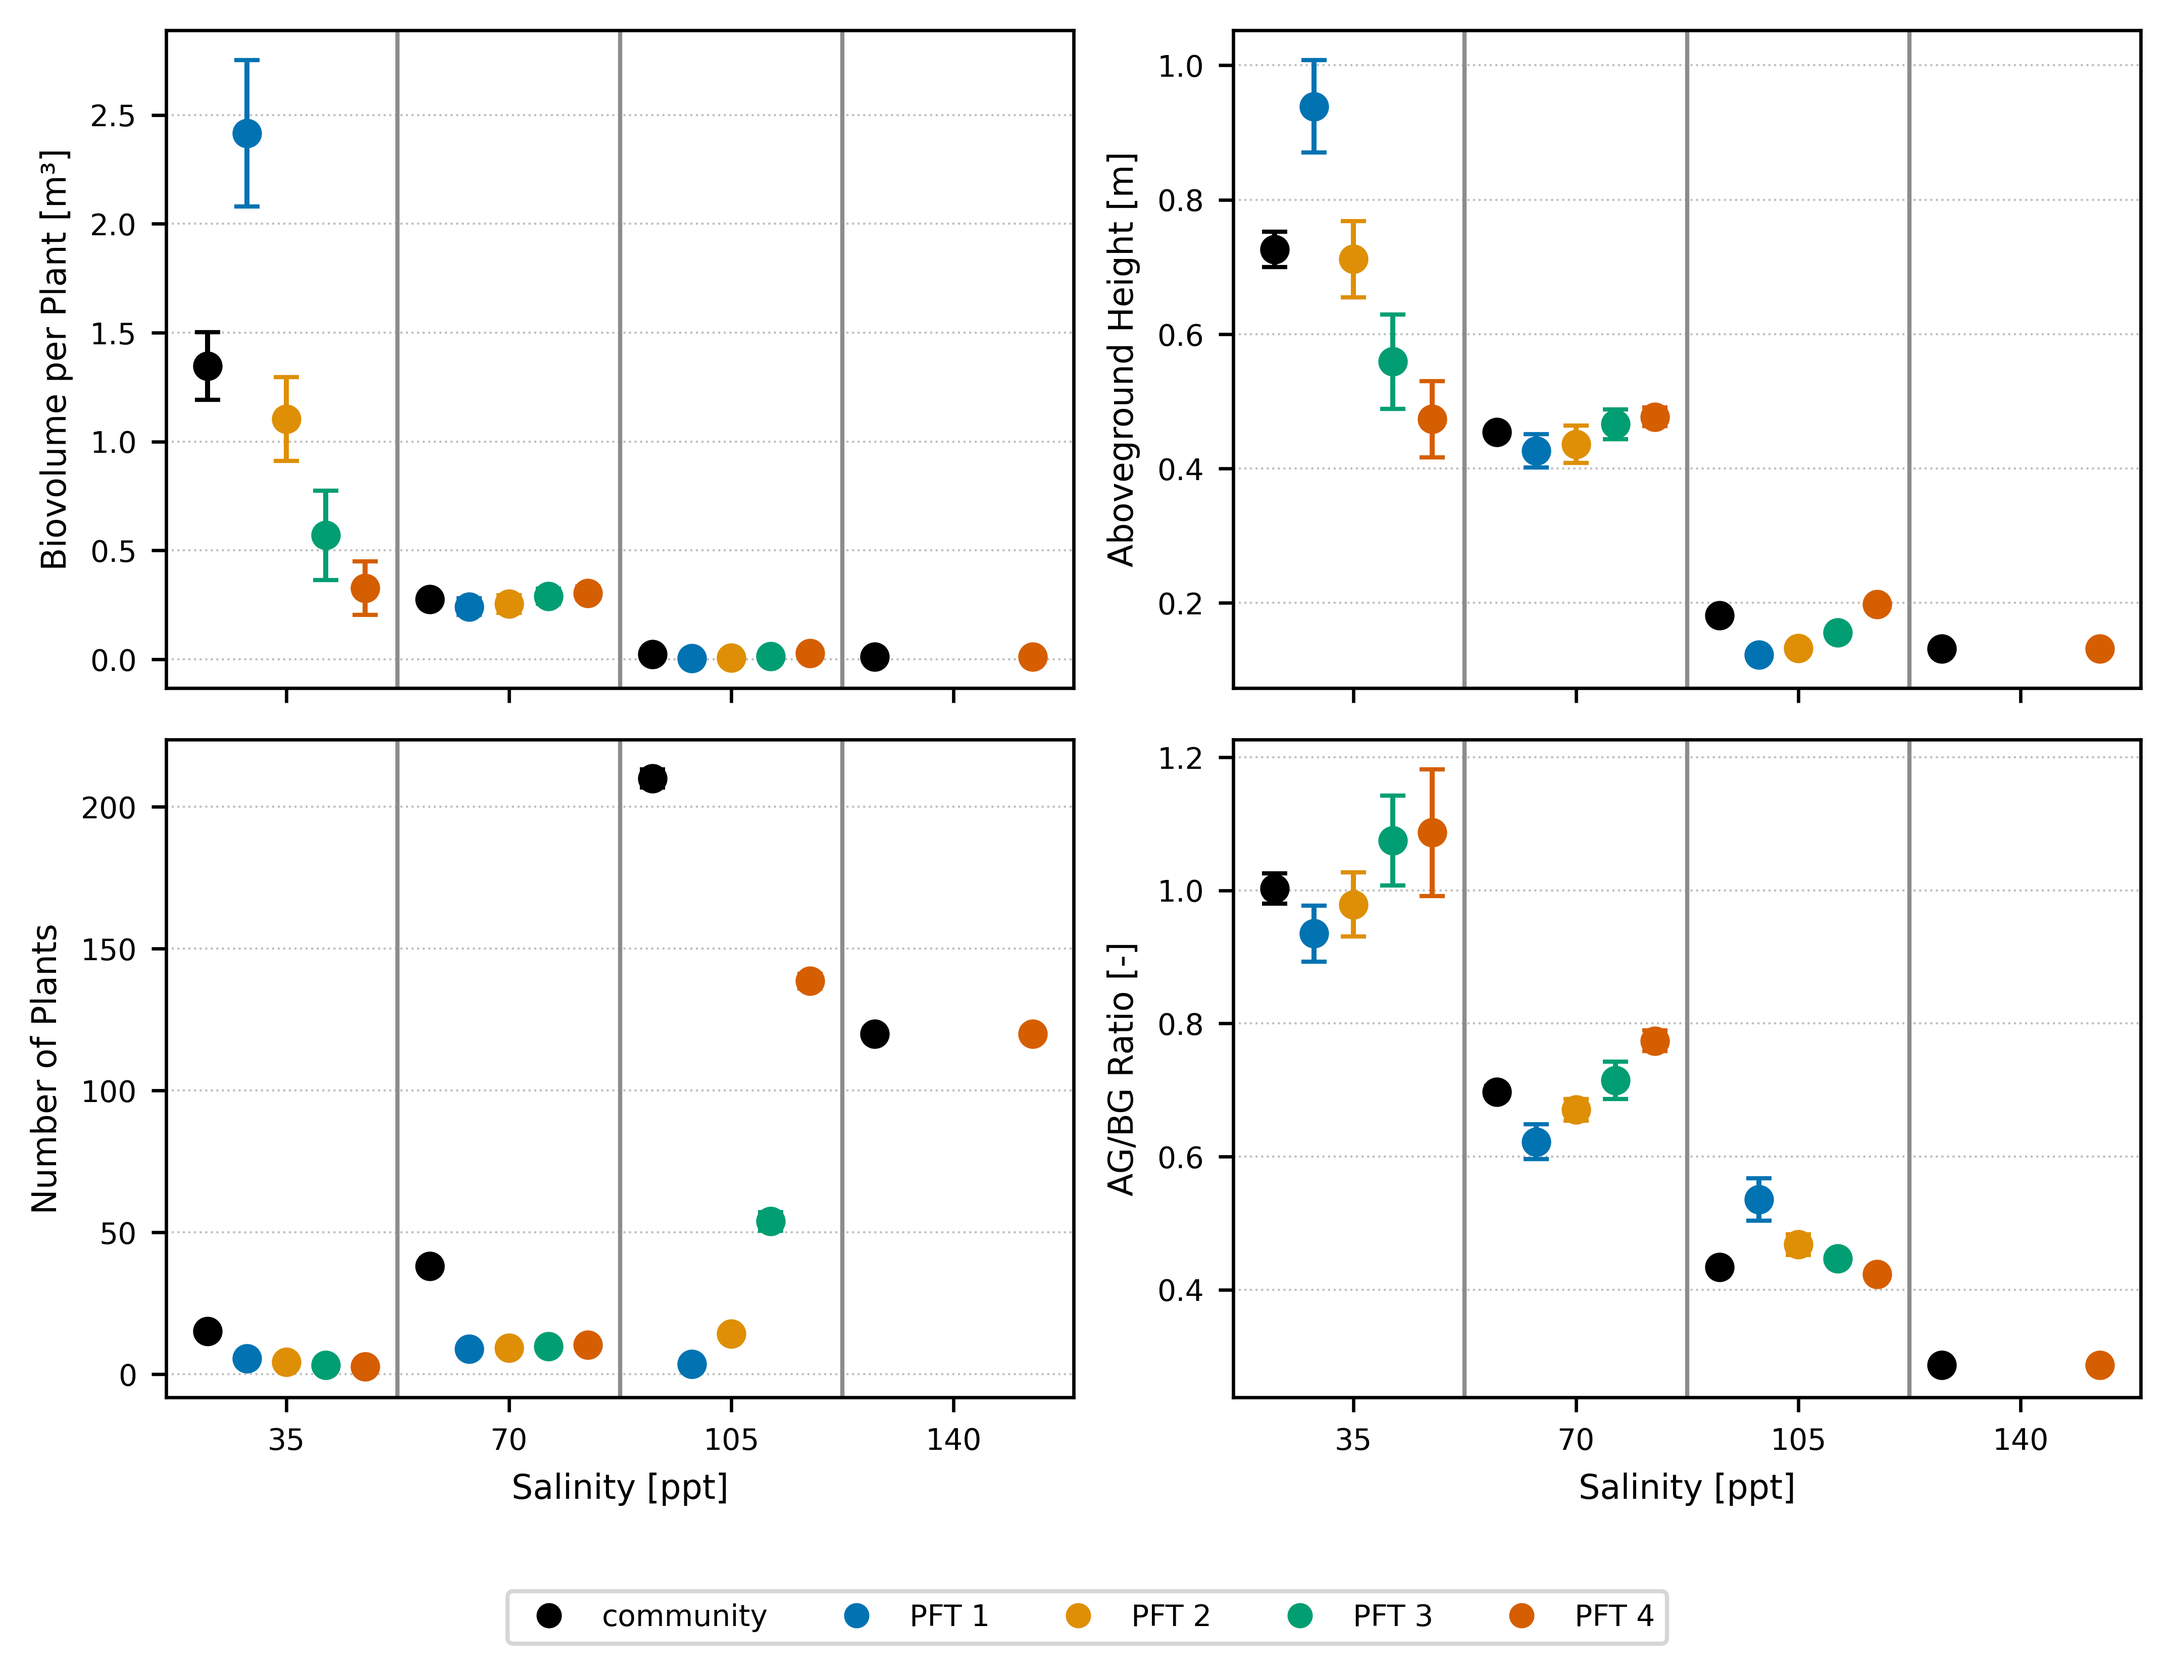
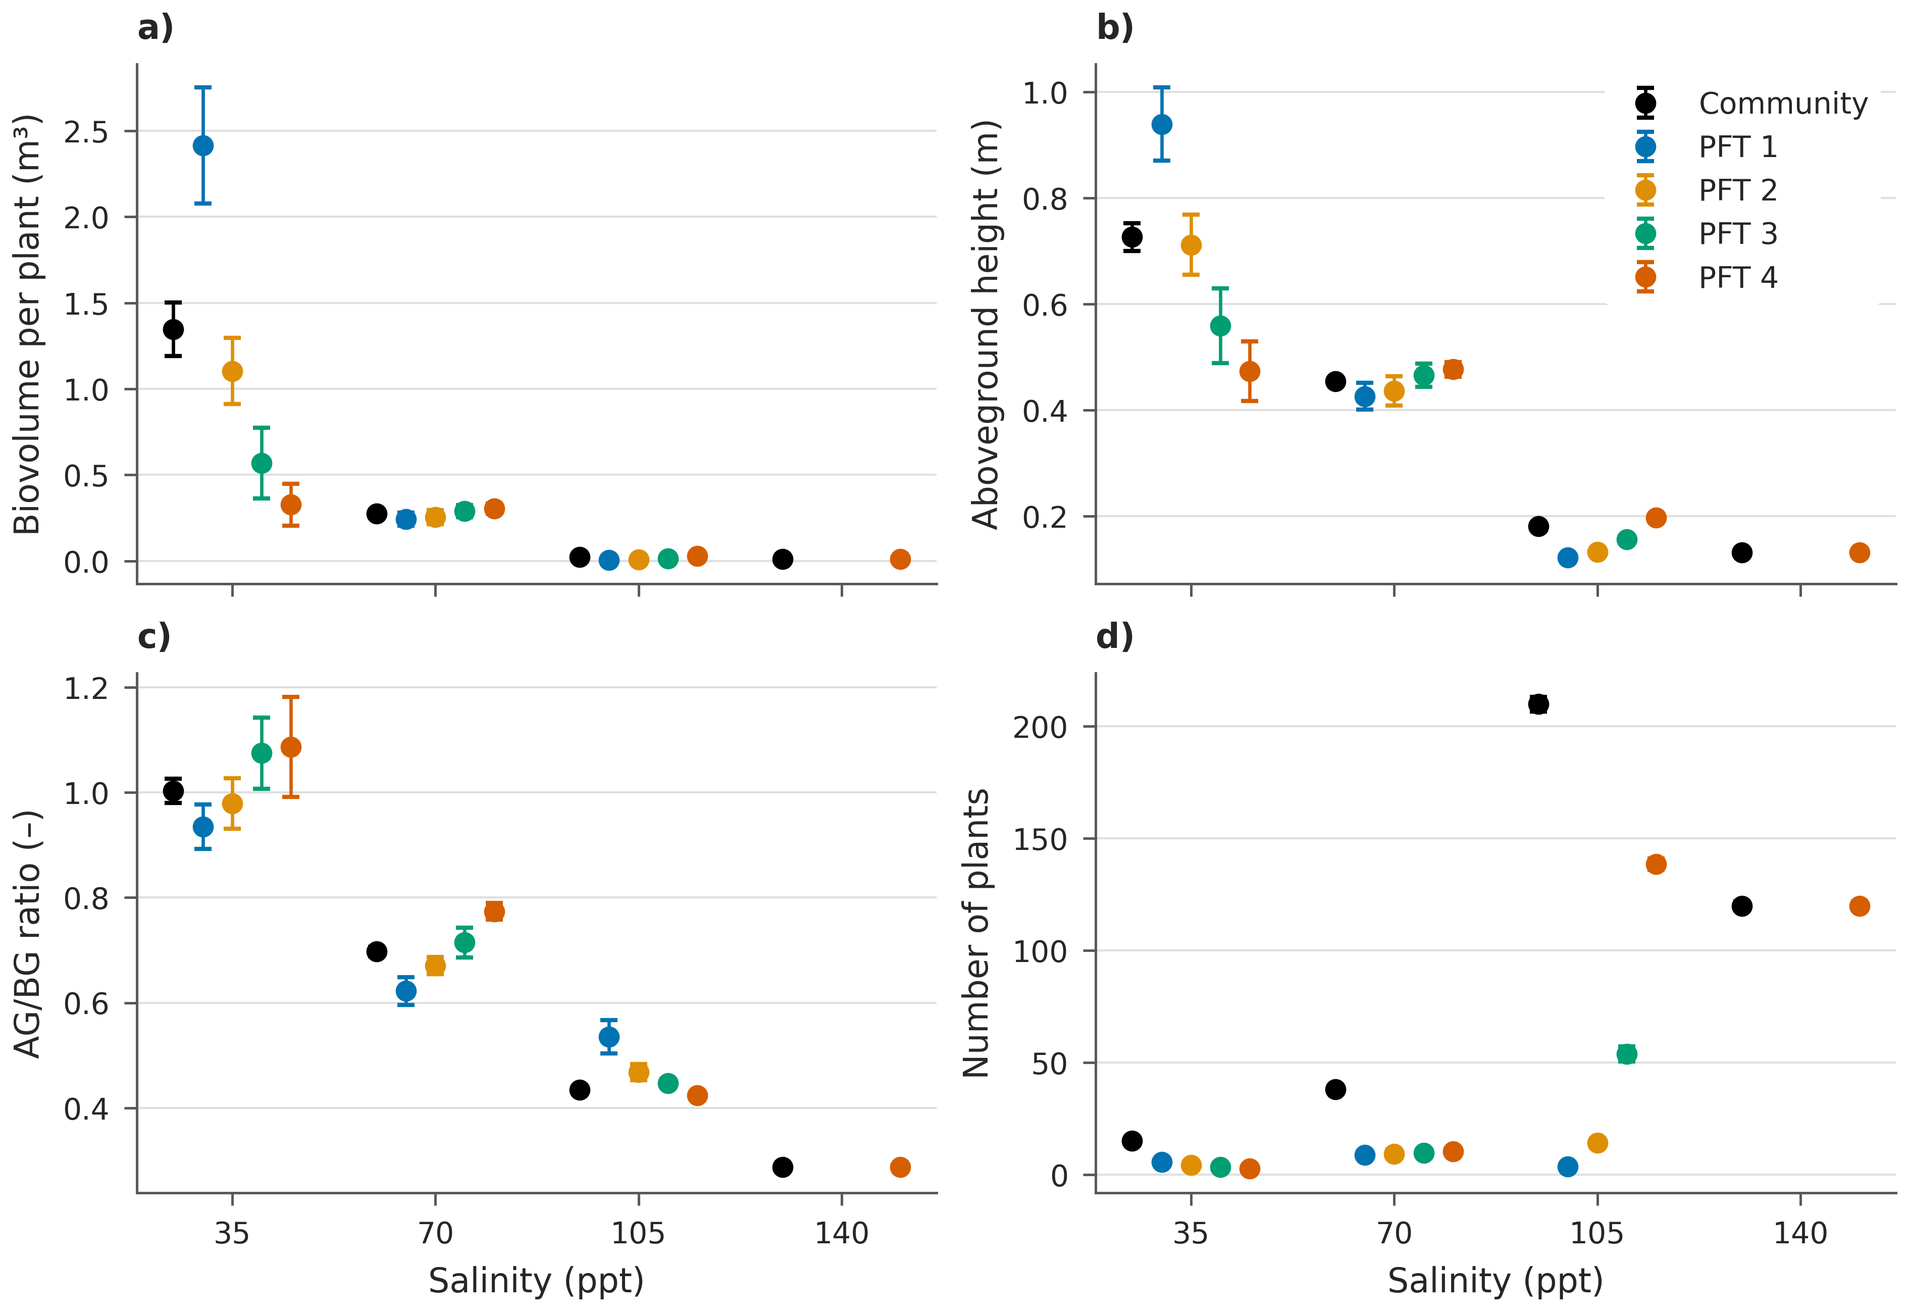
Update Figure 3

diff --git a/source/figure_utils.py b/source/figure_utils.py
@@ -17,7 +17,6 @@ import importlib
 import matplotlib.pyplot as plt
 import numpy as np
 import pandas as pd
-from matplotlib.lines import Line2D
 
 # Files with numeric prefixes are loaded via importlib because they cannot be
 # imported with standard from-import syntax.
@@ -465,18 +464,22 @@ def mean_ts(df, col):
 # =============================================================================
 
 def draw_structure_figure(summaries, salinity_levels, pft_levels, ylabels,
-                          panel_order, show_community=True, group_spacing=3.1):
+                          panel_order, show_community=True, group_spacing=3.8,
+                          pft_colors=None):
     """
     Draw the 2 x 2 point/error-bar figure of plant-structure metrics
-    (Figs. 3 and S3) and return the figure.
+    (Figs. 3 and S3) in the shared style and return the figure.
 
     summaries maps each metric to (summary_pft, summary_all). Both tables have
     the columns salinity, value, err_lower and err_upper; summary_pft also has
     pft. summary_all is the community reference and is only used when
     show_community is True. Within each salinity group, points are placed in
-    the order community (optional), PFT 1, ..., PFT 4.
+    the order community (optional), PFT 1, ..., PFT 4. Salinity groups are
+    separated only by a wider gap (group_spacing), not by lines. Panels are labelled
+    a)-d) in panel_order; the legend sits in the top-right panel.
+    pft_colors defaults to the shared PFT palette.
     """
-    pft_color_map = _config.pft_color_map
+    pft_color_map = pft_colors or _config.pft_color_map
 
     x_group = np.arange(len(salinity_levels)) * group_spacing
     sal_to_x = {sal: x_group[i] for i, sal in enumerate(salinity_levels)}
@@ -485,8 +488,6 @@ def draw_structure_figure(summaries, salinity_levels, pft_levels, ylabels,
     within_offsets = np.array([0.0, 0.55, 1.10, 1.65, 2.20])[:n_series]
     first_pft_slot = 1 if show_community else 0
 
-    group_left = x_group + within_offsets[0] - 0.28
-    group_right = x_group + within_offsets[-1] + 0.28
     group_centers = x_group + np.mean(within_offsets)
 
     def draw_series(ax, summary, x_offset, color, label):
@@ -495,17 +496,17 @@ def draw_structure_figure(summaries, salinity_levels, pft_levels, ylabels,
             summary["value"],
             yerr=[summary["err_lower"], summary["err_upper"]],
             fmt="o",
-            capsize=3,
-            linewidth=1.2,
+            markersize=4,
+            capsize=2,
+            linewidth=0.8,
             color=color,
-            ecolor=color,
             label=label,
         )
 
     fig, axes = plt.subplots(
         nrows=2,
         ncols=2,
-        figsize=(_config.FIG_W * 2.15, _config.FIG_H * 2.35),
+        figsize=_config.figsize_mm(_config.WIDTH_FULL_MM, 110),
         sharex=True,
     )
 
@@ -513,7 +514,7 @@ def draw_structure_figure(summaries, salinity_levels, pft_levels, ylabels,
         summary_pft, summary_all = summaries[metric]
 
         if show_community:
-            draw_series(ax, summary_all, within_offsets[0], "black", "community")
+            draw_series(ax, summary_all, within_offsets[0], "black", "Community")
 
         for i, pft in enumerate(pft_levels, start=first_pft_slot):
             dfp = summary_pft[summary_pft["pft"] == pft]
@@ -522,36 +523,18 @@ def draw_structure_figure(summaries, salinity_levels, pft_levels, ylabels,
             color = pft_color_map[int(pft)]
             draw_series(ax, dfp, within_offsets[i], color, f"PFT {int(pft)}")
 
-        ax.set_xticks(group_centers)
-        ax.set_xticklabels([str(int(s)) for s in salinity_levels])
+        ax.set_xticks(group_centers, [str(int(s)) for s in salinity_levels])
         # Only the bottom row gets an x-axis label.
-        ax.set_xlabel("Salinity [ppt]" if i_panel >= 2 else "")
+        if i_panel >= 2:
+            ax.set_xlabel("Salinity (ppt)")
         ax.set_ylabel(ylabels[metric])
 
-        for k in range(len(group_centers) - 1):
-            mid = (group_right[k] + group_left[k + 1]) / 2
-            ax.axvline(mid, color="0.55", linewidth=1.0, zorder=1)
-
-        ax.grid(axis="y", linestyle=":", linewidth=0.5, alpha=0.8)
         ax.set_axisbelow(True)
+        ax.grid(axis="y", linewidth=0.5, alpha=0.4)
 
-    # Legend below all panels.
-    legend_colors = [("community", "black")] if show_community else []
-    legend_colors += [(f"PFT {int(p)}", pft_color_map[int(p)]) for p in pft_levels]
-    legend_handles = [
-        Line2D([0], [0], marker="o", color=color, linestyle="None",
-               markersize=5, label=label)
-        for label, color in legend_colors
-    ]
-    fig.legend(
-        handles=legend_handles,
-        labels=[handle.get_label() for handle in legend_handles],
-        loc="lower center",
-        ncol=len(legend_handles),
-        frameon=True,
-        bbox_to_anchor=(0.5, 0.01),
-    )
+    _config.add_panel_labels(axes.ravel())
 
-    plt.tight_layout(rect=[0, 0.08, 1, 1])
+    # Legend inside the top-right panel, using the handles drawn there.
+    axes[0, 1].legend(loc="upper right")
 
     return fig

diff --git a/source/04_fig3_community_structure.py b/source/04_fig3_community_structure.py
@@ -34,11 +34,11 @@
 Manuscript Figure 3:
 Static salinity - community metrics with error bars in a 2 x 2 grid.
 
-Panel layout:
-    top left:     Biovolume per Plant
-    top right:    Aboveground Height
-    bottom left:  Number of Plants
-    bottom right: AG/BG Ratio
+Panel layout (as in the manuscript caption):
+    a) top left:     biovolume per plant
+    b) top right:    aboveground height
+    c) bottom left:  AG/BG ratio
+    d) bottom right: number of plants
 
 Output:
     figures/main/fig3_community_structure_median.png
@@ -62,17 +62,17 @@ FIGURES_MAIN = _config.FIGURES_MAIN
 # =============================================================================
 
 metrics_comm = {
-    "volume_per_plant": "Biovolume per Plant [m³]",
-    "h_ag": "Aboveground Height [m]",
-    "ag_bg_ratio": "AG/BG Ratio [-]",
-    "num_plants": "Number of Plants",
+    "volume_per_plant": "Biovolume per plant (m³)",
+    "h_ag": "Aboveground height (m)",
+    "ag_bg_ratio": "AG/BG ratio (–)",
+    "num_plants": "Number of plants",
 }
 
 panel_order = [
     "volume_per_plant",
     "h_ag",
-    "num_plants",
     "ag_bg_ratio",
+    "num_plants",
 ]
 
 plant_level_metrics = [
@@ -212,6 +212,8 @@ VERSIONS = {"median": median_summaries, "mean": mean_summaries}
 # Figures
 # =============================================================================
 
+_config.apply_style()
+
 output_dir = _utils.ensure_dir(FIGURES_MAIN)
 
 for version, get_summaries in VERSIONS.items():
@@ -225,7 +227,8 @@ for version, get_summaries in VERSIONS.items():
         panel_order=panel_order,
     )
 
-    out_png = os.path.join(output_dir, f"fig3_community_structure_{version}.png")
-    plt.savefig(out_png, dpi=600, bbox_inches="tight")
+    _config.save_figure(
+        fig,
+        os.path.join(output_dir, f"fig3_community_structure_{version}.png"),
+    )
     plt.close(fig)
-    print(f"Saved: {out_png}")
